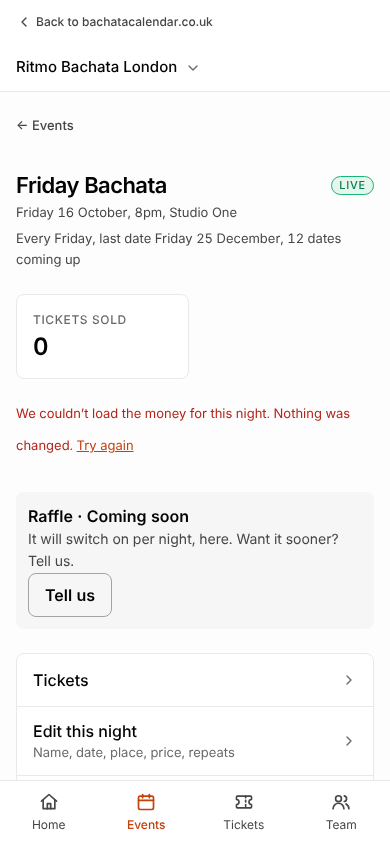
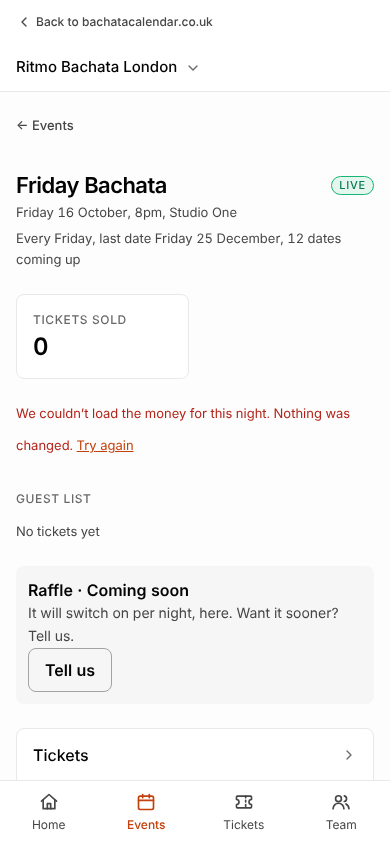
fix(r4): refund review round - recent cancelled nights, door list kept, unclear outcomes not called failures
Claude-Session: https://claude.ai/code/session_01WoGkiBtLFk4U1ABuhhSrKH

diff --git a/src/modules/organiser/p3/r4/__tests__/r4Refund.matrix.test.tsx b/src/modules/organiser/p3/r4/__tests__/r4Refund.matrix.test.tsx
@@ -9,7 +9,7 @@ vi.mock('@/integrations/supabase/client', () => ({ supabase: { rpc: (...a: unkno
 vi.mock('@/hooks/useAuth', () => ({ useAuth: () => ({ user: { id: 'u1' } }) }));
 
 import { R4NightRefund } from '../R4NightRefund';
-import { cancelledFocusOf, refundBlockOf, refundNightOf } from '../r4RefundModel';
+import { cancelledNightsOf, refundBlockOf, refundNightsOf } from '../r4RefundModel';
 import { parseRefundSummary } from '../../door/refundData';
 import type { WorkspaceDate } from '../../../shared/seriesModel';
 
@@ -46,14 +46,16 @@ describe('R4 cancel refund: who sees what', () => {
   it.each([['manager'], ['door staff']])('%s: the server says not_allowed, nothing is drawn', async () => {
     rpc.mockReturnValue(ok({ ok: false, reason: 'not_allowed' }));
     mount();
-    await waitFor(() => expect(screen.queryByTestId('r4-refund-loading')).toBeNull());
+    await waitFor(() => expect(rpc).toHaveBeenCalled());
+    await new Promise((r) => setTimeout(r, 50));
     expect(screen.queryByTestId('r4-refund')).toBeNull();
     expect(screen.queryByRole('button')).toBeNull();
   });
   it('night not cancelled (server answers night_cancelled false): nothing', async () => {
     rpc.mockReturnValue(ok({ ok: true, night_cancelled: false, orders_to_refund: 0, pence_to_refund: 0, free_orders_to_end: 0, orders: [] }));
     mount();
-    await waitFor(() => expect(screen.queryByTestId('r4-refund-loading')).toBeNull());
+    await waitFor(() => expect(rpc).toHaveBeenCalled());
+    await new Promise((r) => setTimeout(r, 50));
     expect(screen.queryByTestId('r4-refund')).toBeNull();
   });
   it('everything refunded: says so, no Refund all, rows say Refunded', async () => {
@@ -72,10 +74,12 @@ describe('R4 cancel refund: who sees what', () => {
 });
 
 describe('R4 cancel refund: the model', () => {
-  it('free orders are not listed: only what the server lists, and a free-only night has nothing to refund', () => {
-    const b = refundBlockOf(parseRefundSummary(plan([], { free_orders_to_end: 3 })));
-    expect(b?.rows).toEqual([]);
-    expect(b?.allOn).toBe(false);
+  it('free orders are not listed: a free-only (or empty) cancelled night draws no block at all', () => {
+    expect(refundBlockOf(parseRefundSummary(plan([], { free_orders_to_end: 3 })))).toBeNull();
+  });
+  it('an order with no readable amount is never called Refunded: it keeps its Refund, no amount shown', () => {
+    const b = refundBlockOf(parseRefundSummary(plan([{ ...order('o1', 'Ana', 0), remaining_pence: null as unknown as number }])));
+    expect(b?.rows[0]).toMatchObject({ canRefund: true, amount: '' });
   });
   it('a mixed-night order is listed with its own Refund and a note, never in the total', () => {
     const b = refundBlockOf(parseRefundSummary(plan([order('o1', 'Ana', 1000, { mixed_nights: true }), order('o2', null, 500)])));
@@ -92,18 +96,20 @@ describe('R4 cancel refund: the model', () => {
     expect(() => parseRefundSummary({ ok: true })).toThrow();
   });
   const d = (id: string, date: string, status: string) => ({ id, occurrence_date: date, lifecycle_status: status } as WorkspaceDate);
-  it('flag off: no cancelled night, so no block, no refund read, and the door list as before', () => {
-    expect(refundNightOf(false, [d('a', '2026-11-20', 'cancelled')], '2026-11-19')).toBeNull();
-    expect(refundNightOf(true, [d('a', '2026-11-20', 'cancelled')], '2026-11-19')).toEqual({ occurrenceId: 'a', date: '2026-11-20' });
+  it('flag off: no nights, so no block and no refund read', () => {
+    expect(refundNightsOf(false, [d('a', '2026-11-20', 'cancelled')], '2026-11-19')).toEqual([]);
+    expect(refundNightsOf(true, [d('a', '2026-11-20', 'cancelled')], '2026-11-19')).toEqual([{ occurrenceId: 'a', date: '2026-11-20' }]);
   });
   it.each([
-    ['next date cancelled', [d('a', '2026-11-20', 'cancelled'), d('b', '2026-11-27', 'scheduled')], { occurrenceId: 'a', date: '2026-11-20' }],
-    ['next date on, a later one cancelled', [d('a', '2026-11-20', 'scheduled'), d('b', '2026-11-27', 'cancelled')], null],
-    ['only a past cancelled date', [d('a', '2026-11-01', 'cancelled')], null],
-    ['cancelled one-off tonight', [d('a', '2026-11-19', 'cancelled')], { occurrenceId: 'a', date: '2026-11-19' }],
-    ['no dates', [], null],
-  ] as const)('focus night: %s', (_c, dates, want) => {
-    expect(cancelledFocusOf(dates as unknown as WorkspaceDate[], '2026-11-19')).toEqual(want);
+    ['next date cancelled', [d('a', '2026-11-20', 'cancelled'), d('b', '2026-11-27', 'scheduled')], ['a']],
+    ['next date on, a later one cancelled', [d('a', '2026-11-20', 'scheduled'), d('b', '2026-11-27', 'cancelled')], ['b']],
+    ['cancelled last week, not refunded before it passed', [d('a', '2026-11-12', 'cancelled'), d('b', '2026-11-26', 'scheduled')], ['a']],
+    ['cancelled more than 28 days ago', [d('a', '2026-10-01', 'cancelled')], []],
+    ['cancelled one-off tonight', [d('a', '2026-11-19', 'cancelled')], ['a']],
+    ['five cancelled: the three nearest today', ['2026-10-29', '2026-11-05', '2026-11-12', '2026-11-26', '2026-12-24'].map((x, i) => d(String(i), x, 'cancelled')), ['2', '3', '1']],
+    ['no dates', [], []],
+  ] as const)('cancelled nights: %s', (_c, dates, want) => {
+    expect(cancelledNightsOf(dates as unknown as WorkspaceDate[], '2026-11-19').map((n) => n.occurrenceId)).toEqual(want);
   });
 });
 
@@ -156,6 +162,35 @@ describe('R4 cancel refund: the confirm sheet', () => {
     fireEvent.click(screen.getByTestId('r4-refund-go'));
     await waitFor(() => expect(screen.getByTestId('r4-refund-said').textContent).toBe('Ben refunded.'));
     expect(invoke).toHaveBeenCalledWith('ticket-refund', { body: { order_id: 'o2' } });
+  });
+  it('no answer at all (network): never says nothing happened; closes, says it could not confirm, re-reads', async () => {
+    rpc.mockReturnValue(ok(TWO));
+    invoke.mockReturnValue(Promise.resolve({ data: null, error: { message: 'Failed to fetch' } }));
+    mount();
+    fireEvent.click(await screen.findByTestId('r4-refund-all'));
+    fireEvent.click(screen.getByTestId('r4-refund-go'));
+    await waitFor(() => expect(screen.getByTestId('r4-refund-said').textContent).toMatch(/couldn\u2019t confirm/));
+    expect(screen.queryByTestId('r4-refund-sheet')).toBeNull();
+    await waitFor(() => expect(rpc).toHaveBeenCalledTimes(2));
+  });
+  it('409 changed and the re-read fails: does not re-ask with the old numbers', async () => {
+    rpc.mockReturnValueOnce(ok(TWO)).mockReturnValue(Promise.resolve({ data: null, error: { message: 'x' } }));
+    invoke.mockReturnValue(http(409, { ok: false, reason: 'changed' }));
+    mount();
+    fireEvent.click(await screen.findByTestId('r4-refund-all'));
+    fireEvent.click(screen.getByTestId('r4-refund-go'));
+    await waitFor(() => expect(screen.queryByTestId('r4-refund-sheet')).toBeNull(), { timeout: 4000 });
+    expect(screen.getByTestId('r4-refund-said').textContent).toMatch(/amount changed/);
+    expect(invoke).toHaveBeenCalledTimes(1);
+  });
+  it('free tickets not closed: the result says so, not as a plain success', async () => {
+    rpc.mockReturnValue(ok(TWO));
+    invoke.mockReturnValue(ok({ ok: true, refunded_count: 2, failed_count: 0, free_ended: 0, free_failed: true, results: [{ order_id: 'o1', ok: true }, { order_id: 'o2', ok: true }] }));
+    mount();
+    fireEvent.click(await screen.findByTestId('r4-refund-all'));
+    fireEvent.click(screen.getByTestId('r4-refund-go'));
+    await waitFor(() => expect(screen.getByTestId('r4-refund-said').textContent).toMatch(/^2 orders refunded\. Free tickets/));
+    expect(screen.getByTestId('r4-refund-said').className).toBe('r4-err');
   });
   it('a failed send keeps the sheet open with the reason, nothing claimed', async () => {
     rpc.mockReturnValue(ok(TWO));

diff --git a/src/modules/organiser/p3/r4/r4RefundModel.ts b/src/modules/organiser/p3/r4/r4RefundModel.ts
@@ -9,17 +9,35 @@ import { gbp } from './r4MoneyModel';
  * them out). The fee goes back to buyers; nothing here promises buyers anything.
  */
 
-/** The night in focus is the earliest date from today on; it is a cancelled night when that date is cancelled. */
-export function cancelledFocusOf(dates: readonly WorkspaceDate[], today: string): { occurrenceId: string; date: string } | null {
-  const first = [...dates].filter((d) => d.occurrence_date >= today).sort((a, b) => a.occurrence_date.localeCompare(b.occurrence_date))[0];
-  return first && first.lifecycle_status === 'cancelled' ? { occurrenceId: first.id, date: first.occurrence_date } : null;
+/** How far back a cancelled night keeps its refund block (a night cancelled late, or not refunded before it passed). */
+export const REFUND_LOOKBACK_DAYS = 28;
+/** At most this many cancelled nights get a block (each is one summary read). */
+export const REFUND_MAX_NIGHTS = 3;
+
+const minusDays = (day: string, n: number) => {
+  const [y, m, d] = day.split('-').map(Number);
+  return new Date(Date.UTC(y, m - 1, d - n)).toISOString().slice(0, 10);
+};
+
+/**
+ * The cancelled nights that may still have money to give back: cancelled dates from REFUND_LOOKBACK_DAYS ago on,
+ * nearest to today first. A night with nothing listed draws nothing (refundBlockOf), so most cost one quiet read.
+ */
+export function cancelledNightsOf(dates: readonly WorkspaceDate[], today: string): { occurrenceId: string; date: string }[] {
+  const from = minusDays(today, REFUND_LOOKBACK_DAYS);
+  const dist = (d: string) => Math.abs(Date.parse(d) - Date.parse(today));
+  return dates
+    .filter((d) => d.lifecycle_status === 'cancelled' && d.occurrence_date >= from)
+    .sort((a, b) => dist(a.occurrence_date) - dist(b.occurrence_date) || a.occurrence_date.localeCompare(b.occurrence_date))
+    .slice(0, REFUND_MAX_NIGHTS)
+    .map((d) => ({ occurrenceId: d.id, date: d.occurrence_date }));
 }
 
-/** The screen's gate: flag off (organiserTicketing && organiserCancelRefund) = no cancelled night, so no block and the door list as before. */
-export const refundNightOf = (on: boolean, dates: readonly WorkspaceDate[], today: string) => (on ? cancelledFocusOf(dates, today) : null);
+/** The screen's gate: flag off (organiserTicketing && organiserCancelRefund) = no nights, no read, page as before. */
+export const refundNightsOf = (on: boolean, dates: readonly WorkspaceDate[], today: string) => (on ? cancelledNightsOf(dates, today) : []);
 
 const orders = (n: number) => `${n} ${n === 1 ? 'order' : 'orders'}`;
-const nameOf = (o: RefundOrderRow) => o.firstName ?? 'No name';
+export const nameOf = (o: Pick<RefundOrderRow, 'firstName'>) => o.firstName ?? 'No name';
 
 export const REFUND_COPY = {
   title: 'Refunds',
@@ -32,7 +50,7 @@ export const REFUND_COPY = {
   refunded: 'Refunded',
   mixed: 'Also on other nights. Refund it on its own.',
   askAll: (n: number, pence: number) => `Refund ${orders(n)}, ${gbp(pence)}?`,
-  askOne: (o: RefundOrderRow) => `Refund ${nameOf(o)}, ${gbp(o.remainingPence)}?`,
+  askOne: (o: RefundOrderRow) => (o.remainingPence === null ? `Refund ${nameOf(o)}?` : `Refund ${nameOf(o)}, ${gbp(o.remainingPence)}?`),
   askOneMixed: 'This order has other nights too. The whole order is refunded.',
   go: 'Refund',
   keep: 'Keep',
@@ -41,6 +59,8 @@ export const REFUND_COPY = {
   retry: 'Try again',
   changed: 'The amount changed since you looked. Check it, then refund again.',
   failed: 'The refund didn\u2019t go through. Nothing changed. Try again.',
+  unsure: 'We couldn\u2019t confirm the refund. Check the list before you try again.',
+  freeFailed: 'Free tickets for this night were not closed yet. Tap Refund all again later, or ask us.',
   notConfigured: 'Refunds are not switched on yet.',
   partial: (done: number, names: string[]) => `${orders(done)} refunded. Not refunded yet: ${names.join(', ')}. Tap Refund all to try those again.`,
   done: (n: number) => `${orders(n)} refunded.`,
@@ -50,9 +70,9 @@ export const REFUND_COPY = {
 export interface RefundRowView { order: RefundOrderRow; name: string; tickets: string; amount: string; canRefund: boolean; note: string | null }
 export interface RefundBlock { line: string; allOn: boolean; rows: RefundRowView[] }
 
-/** null = draw nothing (not owner/admin, wrong night, night not cancelled). */
+/** null = draw nothing (not owner/admin, wrong night, night not cancelled, no paid order on it). */
 export function refundBlockOf(s: NightRefundSummary | undefined): RefundBlock | null {
-  if (!s || s.kind !== 'ok' || !s.nightCancelled) return null;
+  if (!s || s.kind !== 'ok' || !s.nightCancelled || s.orders.length === 0) return null;
   return {
     line: s.ordersToRefund > 0 ? REFUND_COPY.line(s.ordersToRefund, s.penceToRefund) : REFUND_COPY.none,
     allOn: s.ordersToRefund > 0,
@@ -60,8 +80,9 @@ export function refundBlockOf(s: NightRefundSummary | undefined): RefundBlock | 
       order: o,
       name: nameOf(o),
       tickets: o.tickets === null ? '' : `${o.tickets} ${o.tickets === 1 ? 'ticket' : 'tickets'}`,
-      amount: gbp(o.remainingPence),
-      canRefund: !o.refunded && o.remainingPence > 0,
+      amount: o.remainingPence === null ? '' : gbp(o.remainingPence),
+      // an unknown amount is not a refunded order: only the server's own refunded flag (or nothing left) says Refunded
+      canRefund: !o.refunded && o.remainingPence !== 0,
       note: !o.refunded && o.mixedNights ? REFUND_COPY.mixed : null,
     })),
   };
@@ -69,7 +90,8 @@ export function refundBlockOf(s: NightRefundSummary | undefined): RefundBlock | 
 
 /** What a Refund all press says, given the orders it was about (for names of the ones that failed). */
 export function nightDoneText(d: NightRefundDone, list: readonly RefundOrderRow[]): { text: string; ok: boolean } {
-  if (d.failed.length === 0) return { text: REFUND_COPY.done(d.refunded), ok: true };
+  const free = d.freeFailed ? ` ${REFUND_COPY.freeFailed}` : '';
+  if (d.failed.length === 0) return { text: REFUND_COPY.done(d.refunded) + free, ok: !d.freeFailed };
   const byId = new Map(list.map((o) => [o.orderId, nameOf(o)]));
-  return { text: REFUND_COPY.partial(d.refunded, d.failed.map((id) => byId.get(id) ?? 'No name')), ok: false };
+  return { text: REFUND_COPY.partial(d.refunded, d.failed.map((id) => byId.get(id) ?? nameOf({ firstName: null }))) + free, ok: false };
 }

diff --git a/src/modules/organiser/p3/r4/R4NightRefund.tsx b/src/modules/organiser/p3/r4/R4NightRefund.tsx
@@ -1,16 +1,18 @@
 import { useState } from 'react';
-import { useQuery } from '@tanstack/react-query';
+import { useQuery, useQueryClient } from '@tanstack/react-query';
 import { useAuth } from '@/hooks/useAuth';
 import { fetchNightRefundSummary, refundKeys, refundNight, refundOneOrder, type RefundOrderRow } from '../door/refundData';
 import { Sheet } from '../screens/Sheet';
 import { fullDate } from '../../shared/dateWords';
-import { REFUND_COPY, nightDoneText, refundBlockOf } from './r4RefundModel';
+import { REFUND_COPY, nameOf, nightDoneText, refundBlockOf } from './r4RefundModel';
+import { nightMoneyQueryKey } from './r4MoneyApi';
 
 type Ask = { kind: 'all'; orders: number; pence: number } | { kind: 'one'; order: RefundOrderRow };
 
 /** Board R4 cancel refund (flag organiserCancelRefund): the block under a cancelled night's numbers. Owner / admin only (server). */
 export function R4NightRefund({ seriesId, occurrenceId, date }: { seriesId: string; occurrenceId: string; date: string }) {
   const { user } = useAuth();
+  const qc = useQueryClient();
   const q = useQuery({
     queryKey: refundKeys.night(user?.id, seriesId, occurrenceId),
     queryFn: () => fetchNightRefundSummary(seriesId, occurrenceId),
@@ -25,12 +27,20 @@ export function R4NightRefund({ seriesId, occurrenceId, date }: { seriesId: stri
   if (q.isError && !q.data) {
     return <p className="r4-err" role="alert" data-testid="r4-refund-error">{REFUND_COPY.error} <button type="button" className="r4-linkbtn" onClick={() => void q.refetch()}>{REFUND_COPY.retry}</button></p>;
   }
-  if (!q.data) return q.isPending && user?.id ? <p className="r4-note" data-testid="r4-refund-loading">{REFUND_COPY.loading}</p> : null;
+  // quiet while loading: most cancelled nights have no paid order and draw nothing at all
+  if (!q.data) return null;
   const b = refundBlockOf(q.data);
   if (!b) return null;
   const summary = q.data.kind === 'ok' ? q.data : null;
 
   const close = () => { if (!busy) { setAsk(null); setSheetErr(null); } };
+  // A refusal with a reason sent nothing. No answer at all (network, gateway) may have reached Stripe: say we could
+  // not confirm, close the sheet and let the re-read list show what happened before anyone presses again.
+  const unclear = (out: { kind: 'not_configured' } | { kind: 'failed'; reason: string | null }) => {
+    if (out.kind === 'not_configured') setSheetErr(REFUND_COPY.notConfigured);
+    else if (out.reason) setSheetErr(REFUND_COPY.failed);
+    else { setAsk(null); setSaid({ text: REFUND_COPY.unsure, ok: false }); }
+  };
   const go = async () => {
     if (!ask) return;
     setBusy(true); setSheetErr(null);
@@ -39,8 +49,9 @@ export function R4NightRefund({ seriesId, occurrenceId, date }: { seriesId: stri
         const list = summary?.orders ?? [];
         const out = await refundNight(seriesId, occurrenceId, { pence: ask.pence, orders: ask.orders });
         if (out.kind === 'changed') {
-          // nothing was sent: read the new totals and ask again with them
+          // nothing was sent: read the new totals and ask again with them (never re-ask with numbers that did not reload)
           const fresh = await q.refetch();
+          if (fresh.isError) { setAsk(null); setSaid({ text: `${REFUND_COPY.changed} ${REFUND_COPY.error}`, ok: false }); return; }
           const s = fresh.data?.kind === 'ok' ? fresh.data : null;
           if (s && s.nightCancelled && s.ordersToRefund > 0) setAsk({ kind: 'all', orders: s.ordersToRefund, pence: s.penceToRefund });
           else setAsk(null);
@@ -49,13 +60,14 @@ export function R4NightRefund({ seriesId, occurrenceId, date }: { seriesId: stri
           return;
         }
         if (out.kind === 'ok') { setSaid(nightDoneText(out.value, list)); setAsk(null); }
-        else setSheetErr(out.kind === 'not_configured' ? REFUND_COPY.notConfigured : REFUND_COPY.failed);
+        else unclear(out);
       } else {
         const out = await refundOneOrder(ask.order.orderId);
-        if (out.kind === 'ok') { setSaid({ text: REFUND_COPY.doneOne(ask.order.firstName ?? 'No name'), ok: true }); setAsk(null); }
-        else setSheetErr(out.kind === 'not_configured' ? REFUND_COPY.notConfigured : REFUND_COPY.failed);
+        if (out.kind === 'ok') { setSaid({ text: REFUND_COPY.doneOne(nameOf(ask.order)), ok: true }); setAsk(null); }
+        else unclear(out);
       }
       void q.refetch();
+      void qc.invalidateQueries({ queryKey: nightMoneyQueryKey(user?.id ?? null, seriesId) });
     } finally {
       setBusy(false);
     }

diff --git a/src/modules/organiser/p3/r4/R4Night.tsx b/src/modules/organiser/p3/r4/R4Night.tsx
@@ -24,7 +24,7 @@ import { nightsOfChoice } from './r4Nights';
 import { R4GuestList } from './R4GuestList';
 import { R4CancelSheet } from './R4CancelSheet';
 import { R4NightRefund } from './R4NightRefund';
-import { refundNightOf } from './r4RefundModel';
+import { refundNightsOf } from './r4RefundModel';
 import { R4Chevron } from './R4Shell';
 import { r4NightOf } from './r4NightModel';
 import { fetchNightMoney, nightMoneyQueryKey } from './r4MoneyApi';
@@ -62,8 +62,9 @@ function Night({ ws, place }: { ws: EventWorkspace; place: string | null }) {
   const plan = cancelPlan(ws, today);
   const draft = row?.lifecycle === 'draft';
   const nightOn = !!row?.next && row.next.status !== 'cancelled' && !draft;
-  // R4 cancel refund (flag): the night in focus is cancelled -> the refund block shows and the door list does not
-  const cancelledNight = refundNightOf(flags.organiserTicketing && flags.organiserCancelRefund, ws.dates, today);
+  // R4 cancel refund (flag): recent cancelled nights with paid orders get a refund block. The door list needs no
+  // hiding: the server's door night is always a scheduled one (_ticket_door_night_at_v1), never a cancelled night.
+  const refundNights = refundNightsOf(flags.organiserTicketing && flags.organiserCancelRefund, ws.dates, today);
   const doorRead = useQuery({
     queryKey: ['r4-door', id],
     queryFn: () => fetchDoorNight(id, null),
@@ -138,9 +139,9 @@ function Night({ ws, place }: { ws: EventWorkspace; place: string | null }) {
         <p className="r4-err" role="alert" data-testid="r4-night-money-error">{R4_MONEY_COPY.error} <button type="button" className="r4-linkbtn" onClick={() => void moneyRead.refetch()}>{R4_MONEY_COPY.retry}</button></p>
       )}
 
-      {cancelledNight && <R4NightRefund seriesId={id} occurrenceId={cancelledNight.occurrenceId} date={cancelledNight.date} />}
+      {refundNights.map((n) => <R4NightRefund key={n.occurrenceId} seriesId={id} occurrenceId={n.occurrenceId} date={n.date} />)}
 
-      {flags.organiserTicketing && nightOn && !cancelledNight && <R4GuestList seriesId={id} />}
+      {flags.organiserTicketing && nightOn && <R4GuestList seriesId={id} />}
 
       {raffleNight && (
         <section className="r4-section" aria-label="Raffle" data-testid="r4-night-raffle">

diff --git a/src/modules/organiser/p3/door/refundData.ts b/src/modules/organiser/p3/door/refundData.ts
@@ -11,7 +11,7 @@ import { classifyEdge, refundOrder, type EdgeOutcome } from '../../tickets/ticke
 type Resp = PromiseLike<{ data: unknown; error: { message?: string; code?: string } | null }>;
 const db = () => supabase as unknown as { rpc(fn: string, args: Record<string, unknown>): Resp };
 
-export interface RefundOrderRow { orderId: string; firstName: string | null; tickets: number | null; remainingPence: number; refunded: boolean; mixedNights: boolean }
+export interface RefundOrderRow { orderId: string; firstName: string | null; tickets: number | null; remainingPence: number | null; refunded: boolean; mixedNights: boolean }
 export type NightRefundSummary =
   | { kind: 'not_allowed' }
   | { kind: 'wrong_night' }
@@ -38,7 +38,7 @@ export function parseRefundSummary(d: unknown): NightRefundSummary {
       orderId: o.order_id as string,
       firstName: str(o.first_name),
       tickets: int(o.tickets),
-      remainingPence: int(o.remaining_pence) ?? 0,
+      remainingPence: int(o.remaining_pence),
       refunded: o.refunded === true,
       mixedNights: o.mixed_nights === true,
     }));
@@ -77,13 +77,13 @@ export async function refundNight(seriesId: string, occurrenceId: string, expect
 }
 
 export function nightDoneOf(v: unknown): NightRefundOutcome {
-  const b = (v ?? {}) as { ok?: unknown; reason?: unknown; results?: unknown; free_failed?: unknown };
+  const b = (v ?? {}) as { ok?: unknown; reason?: unknown; results?: unknown; free_failed?: unknown; refunded_count?: unknown };
   if (b.ok !== true) return b.reason === 'changed' ? { kind: 'changed' } : { kind: 'failed', reason: typeof b.reason === 'string' ? b.reason : null };
   const results = Array.isArray(b.results) ? (b.results as { order_id?: unknown; ok?: unknown }[]) : [];
   return {
     kind: 'ok',
     value: {
-      refunded: results.filter((x) => x.ok === true).length,
+      refunded: Array.isArray(b.results) ? results.filter((x) => x.ok === true).length : int(b.refunded_count) ?? 0,
       failed: results.filter((x) => x.ok !== true && typeof x.order_id === 'string').map((x) => x.order_id as string),
       freeFailed: b.free_failed === true,
     },

diff --git a/tests/e2e/walk-r4-cancel-refund.spec.ts b/tests/e2e/walk-r4-cancel-refund.spec.ts
@@ -43,7 +43,6 @@ test('owner, cancelled night: refund block, sheet, partial result', async ({ pag
   const sent = await open(page);
   await expect(page.getByTestId('r4-refund-line')).toHaveText('3 orders to refund, \u00a357', { timeout: 10_000 });
   await expect(page.getByTestId('r4-refund-title')).toHaveText(/^Refunds, cancelled Friday 9 October$/);
-  await expect(page.getByTestId('r4-guests')).toHaveCount(0);
   await expect(page.getByTestId('r4-refund-row')).toHaveCount(5);
   for (const b of await page.locator('[data-testid=r4-refund-all], [data-testid=r4-refund-one]').all()) expect((await b.boundingBox())!.height).toBeGreaterThanOrEqual(42);
   await expectNoHorizontalScroll(page);
